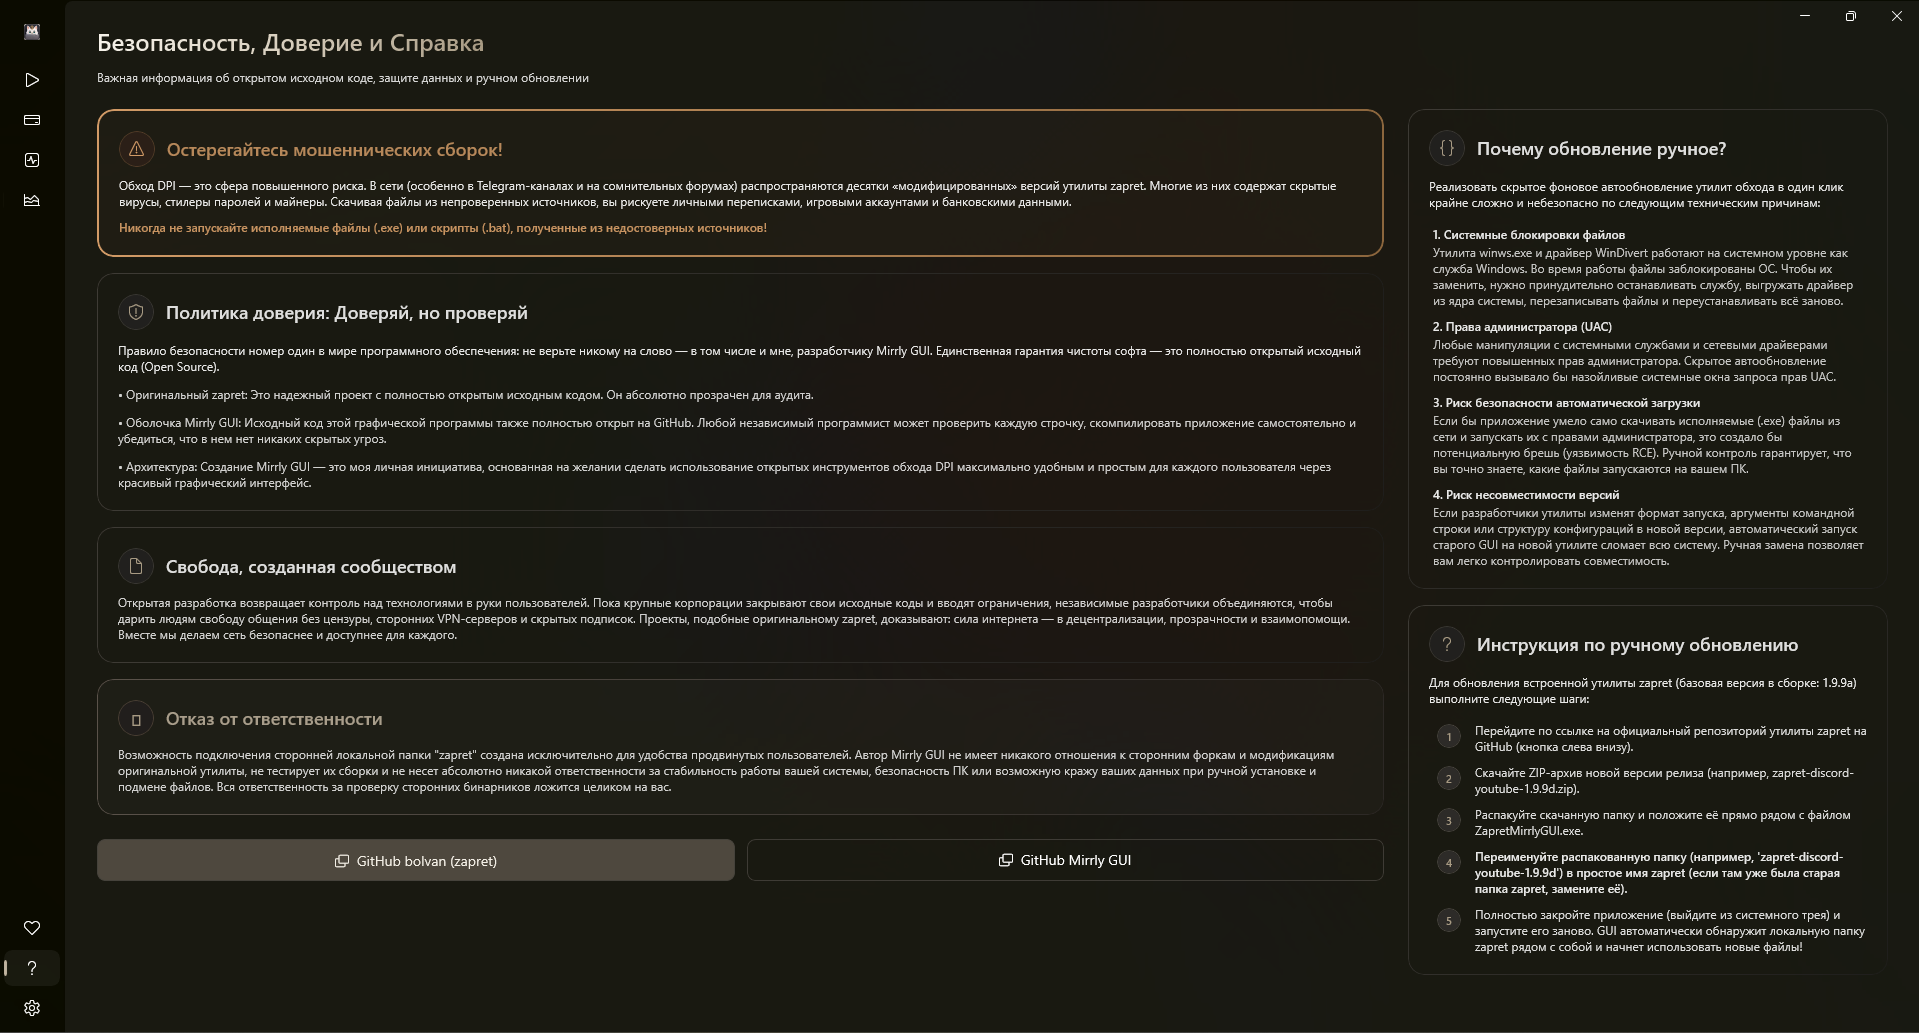
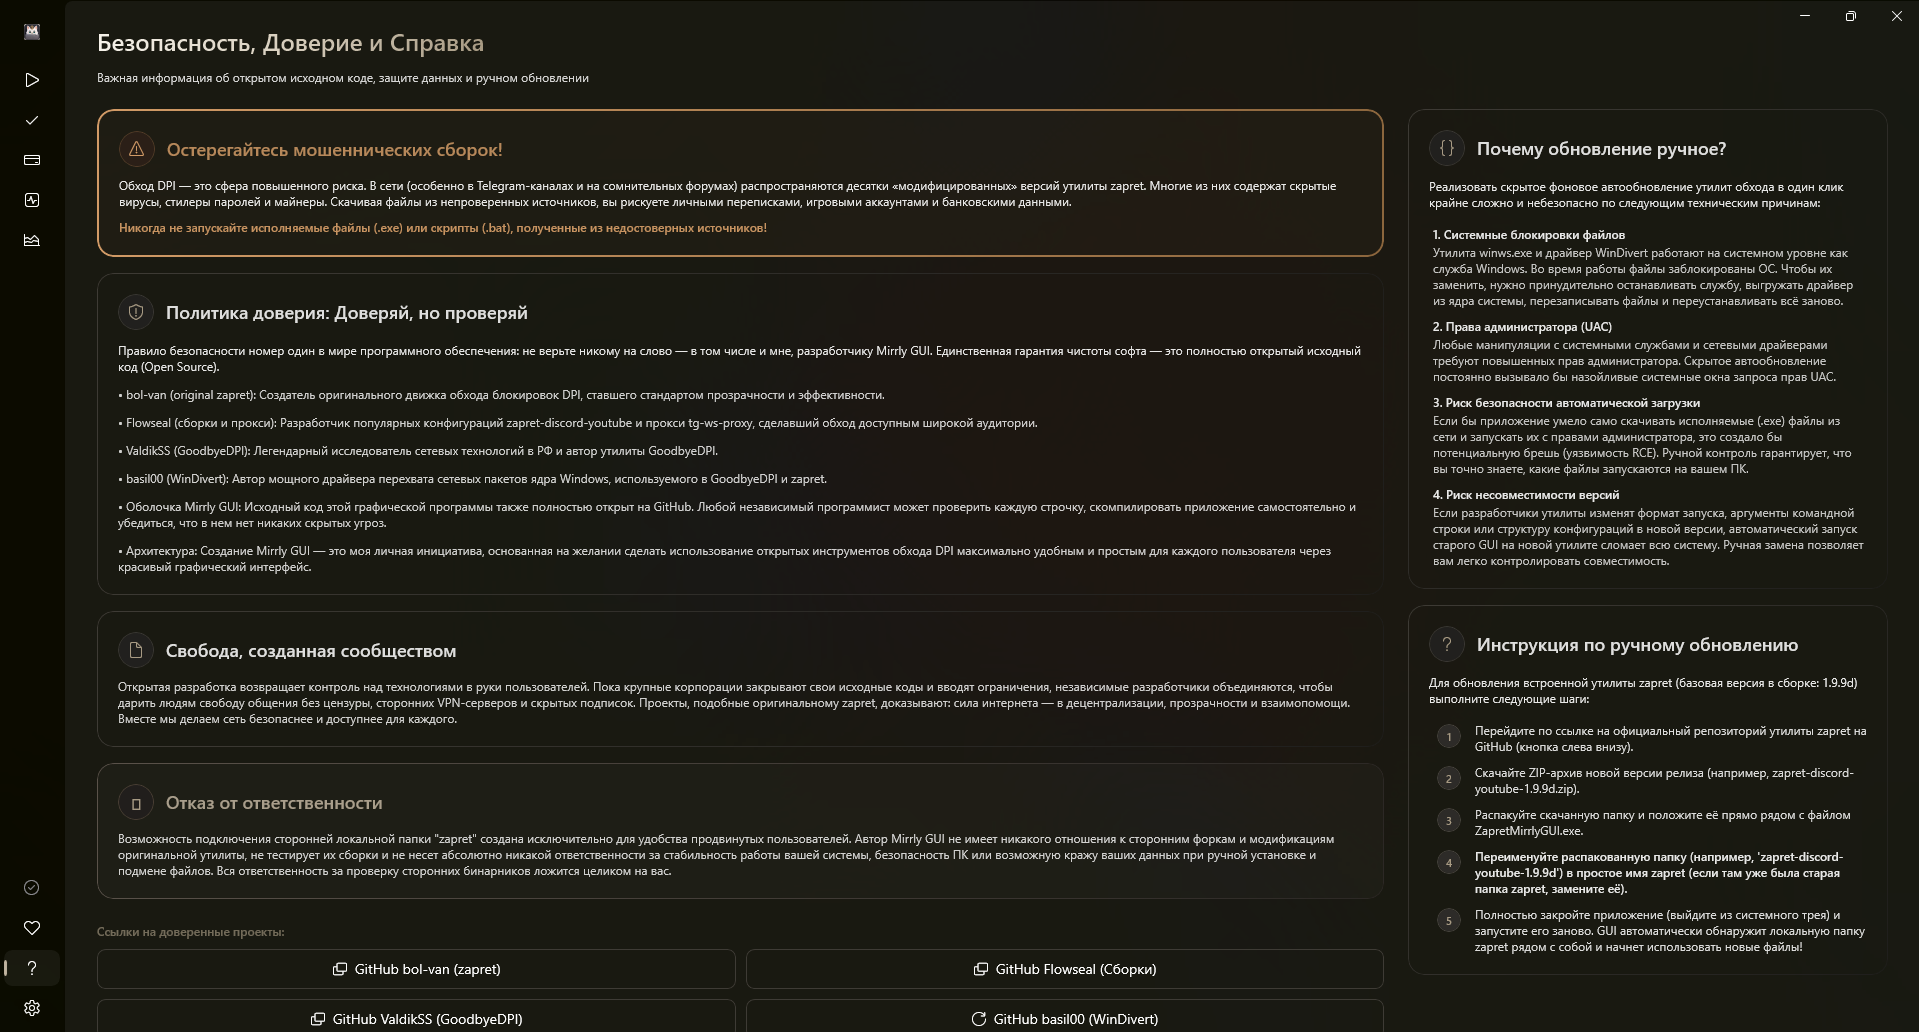
docs: refactor and expand README.md with architecture overview and screenshots

diff --git a/README.md b/README.md
@@ -5,243 +5,217 @@
 <h1 align="center">Zapret Mirrly GUI</h1>
 
 <p align="center">
-  <b>Современный графический интерфейс (WinUI 3) для автоматического обхода DPI блокировок YouTube, Discord и блокировок Telegram в один клик.</b>
+  <b>Современное графическое решение (WinUI 3) для автоматического обхода DPI-блокировок YouTube, Discord и системного проксирования Telegram в один клик.</b>
 </p>
 
 <p align="center">
   <a href="https://github.com/joycecurcirt539-dot/zapret-mirrly-gui/releases"><img src="https://img.shields.io/github/v/release/joycecurcirt539-dot/zapret-mirrly-gui?style=for-the-badge&logo=github&color=6e40c9" alt="Release" /></a>
   <a href="https://github.com/joycecurcirt539-dot/zapret-mirrly-gui/releases"><img src="https://img.shields.io/github/downloads/joycecurcirt539-dot/zapret-mirrly-gui/total?style=for-the-badge&logo=github&color=6e40c9" alt="Downloads" /></a>
   <img src="https://img.shields.io/badge/.NET-10.0-blue?style=for-the-badge&logo=dotnet" alt=".NET 10" />
-  <img src="https://img.shields.io/badge/Platform-Windows-0078D6?style=for-the-badge&logo=windows" alt="Platform" />
+  <img src="https://img.shields.io/badge/Platform-Windows%2010%20%2F%2011-0078D6?style=for-the-badge&logo=windows" alt="Platform" />
   <img src="https://img.shields.io/badge/UI-WinUI%203-005A9E?style=for-the-badge&logo=windows" alt="UI Framework" />
 </p>
 
 <p align="center">
   <a href="https://github.com/joycecurcirt539-dot/zapret-mirrly-gui/releases/latest">
-    <img src="https://img.shields.io/badge/⬇%EF%B8%8F_%D0%A1качать_v1.1.0-ZapretMirrlyGUI.exe-6e40c9?style=for-the-badge&logo=github" alt="Скачать последнюю версию" />
+    <img src="https://img.shields.io/badge/⬇%EF%B8%8F_Скачать_последнюю_версию-ZapretMirrlyGUI.exe-6e40c9?style=for-the-badge&logo=github" alt="Скачать последнюю версию" />
   </a>
 </p>
 
-> [!NOTE]
-> 🔔 Репозиторий **Flowseal/zapret-discord-youtube** на GitHub снова активен и разморожен! **Zapret Mirrly GUI** построен на его сборке и предоставляет удобный графический интерфейс для обхода блокировок.
-
-> [!WARNING]
-> Для корректной работы (запуск winws, установка службы, использование WinDivert) **требуются права администратора**. Приложение автоматически запросит повышение прав UAC.
+> [!IMPORTANT]
+> **Требуются права Администратора.** Для корректного монтирования драйвера ядра `WinDivert` и управления службами Windows приложению необходим повышенный уровень привилегий. При запуске программа автоматически запросит стандартное UAC-подтверждение.
 
 ---
 
 ## 📖 Содержание
-1. [Скриншоты и Возможности](#-скриншоты-и-возможности)
+1. [О проекте](#-о-проекте)
 2. [Основные возможности](#-основные-возможности)
-3. [Сравнение с аналогами](#-сравнение-с-аналогами)
-4. [Системные требования](#-системные-требования)
-5. [Установка и запуск](#-установка-и-запуск)
-6. [Как это работает](#-как-это-работает)
-7. [Частые вопросы (FAQ)](#-частые-вопросы-faq)
-8. [Создатели и Благодарности](#-создатели-и-благодарности)
-9. [Лицензия](#-лицензия)
+3. [Архитектура и технические детали](#-архитектура-и-технические-детали)
+4. [Интерфейс и скриншоты](#-интерфейс-и-скриншоты)
+5. [Системные требования](#-системные-требования)
+6. [Быстрый запуск](#-быстрый-запуск)
+7. [Сравнение с альтернативами](#-сравнение-с-альтернативами)
+8. [Часто задаваемые вопросы (FAQ)](#-часто-задаваемые-вопросы-faq)
+9. [Зависимости и благодарности](#-зависимости-и-благодарности)
+10. [Лицензия](#-лицензия)
 
 ---
 
-## 📸 Скриншоты и Возможности
+## 🌟 О проекте
 
-### 🏠 Главный хаб управления
-<p align="center">
-  <img src="screenshot/hub.png" width="80%" alt="Главный экран" />
-</p>
-<p align="center">
-  <i>Запуск и остановка утилиты обхода блокировок в один клик. Выбирайте предустановленные стратегии (FAKE TLS, SIMPLE FAKE, ALT) или устанавливайте службу для автоматического запуска при загрузке Windows.</i>
-</p>
+**Zapret Mirrly GUI** — это развитая графическая оболочка, объединяющая возможности низкоуровневого DPI-обходчика `zapret` и специально спроектированного высокоскоростного Telegram-прокси. 
 
----
-
-### 🔍 Интерактивная диагностика
-<p align="center">
-  <img src="screenshot/diagnostics.png" width="80%" alt="Диагностика" />
-</p>
-<p align="center">
-  <i>Встроенный тест доступности популярных ресурсов (YouTube, Discord). Проверяет разрешение DNS, доступность по Ping и отправку тестовых HTTP-запросов, помогая определить, работает ли обход DPI.</i>
-</p>
-
----
-
-### 📊 Цветовой журнал логов
-<p align="center">
-  <img src="screenshot/logs.png" width="80%" alt="Журнал логов" />
-</p>
-<p align="center">
-  <i>Динамический лог работы <code>winws.exe</code>. Все события разделены по категориям и подсвечиваются цветом (критические ошибки — красным, предупреждения — оранжевым, успешные статусы — зеленым), упрощая отладку.</i>
-</p>
-
----
-
-### 📝 Редактор списков доменов
-<p align="center">
-  <img src="screenshot/lists.png" width="80%" alt="Редактор списков" />
-</p>
-<p align="center">
-  <i>Управляйте списками доменов (blacklist/whitelist) прямо из GUI без необходимости открывать блокнот и искать файлы конфигурации в проводнике.</i>
-</p>
-
----
-
-### ❓ FAQ и Безопасность (Справка)
-<p align="center">
-  <img src="screenshot/safety.png" width="80%" alt="Частые вопросы и безопасность" />
-</p>
-<p align="center">
-  <i>Раздел ответов на часто задаваемые вопросы (FAQ), информация о безопасности работы приложения, локальном трафике и разъяснение необходимости прав администратора.</i>
-</p>
-
----
-
-### 📥 Управление в трее
-<p align="center">
-  <img src="screenshot/tray.png" width="40%" alt="Трей" />
-</p>
-<p align="center">
-  <i>Приложение сворачивается в системный трей, не занимая места на панели задач, и позволяет управлять состоянием службы через удобное контекстное меню.</i>
-</p>
+Проект решает главную проблему консольных утилит — сложность настройки и отсутствие обратной связи. Вместо редактирования конфигурационных файлов вручную и запуска разрозненных `.bat` скриптов, пользователь получает единую среду управления с интерактивной диагностикой, визуальным редактором правил и встроенным системным треем. Приложение работает полностью локально, сохраняя вашу конфиденциальность: весь трафик обрабатывается непосредственно на вашем ПК без отправки на внешние VPN-серверы.
 
 ---
 
 ## ✨ Основные возможности
 
-* 🖥️ **Премиальный современный UI:** Интерфейс в стиле Fluent Design с тёмной/светлой темой, эффектом Mica/Acrylic и плавными анимациями.
-* ⚙️ **Управление Windows-службой:** Установка, удаление, запуск и остановка службы `winws` в один клик. Работает в фоне после закрытия окна.
-* ⚡ **Менеджер пресетов:** Стратегии обхода DPI (FAKE TLS, SIMPLE FAKE, ALT) для YouTube и Discord. Поддержка собственных аргументов.
-* ✈️ **Встроенный обход Telegram (C# TgWsProxy):** Высокоскоростной встроенный прокси-сервер на чистом C# (.NET 10) для разблокировки Telegram. Поддерживает пулы веб-сокетов, маскировочный Fake TLS SNI, Cloudflare Workers и быстрое подключение прямо из трея.
-* 🔍 **Встроенная диагностика сети:** Тестирование Discord, YouTube, DNS и Ping прямо из приложения.
-* 📝 **Живой лог `winws.exe`:** Вывод в реальном времени с цветовым кодированием событий для диагностики проблем.
-* 📋 **Редактор списков доменов:** Удобное управление blacklist/whitelist файлами конфигурации `zapret`.
-* 📦 **Один файл, без установки:** `ZapretMirrlyGUI.exe` — полностью автономный, .NET Runtime не нужен.
+* **Элегантный Fluent интерфейс:** Современный дизайн на базе WinUI 3 с полноценной поддержкой эффектов Mica и Acrylic, плавной анимацией интерфейса, автоматическим переключением темной/светлой тем и высокой плотностью компоновки элементов.
+* **Управление Windows-службой:** Установка и удаление системной службы `winws` в один клик. Служба работает в фоновом режиме независимо от того, запущено ли само графическое окно приложения, обеспечивая автоматический обход блокировок сразу после загрузки ОС.
+* **Автоматический запуск и работа в трее:** Приложение умеет сворачиваться в область уведомлений (системный трей). Из контекстного меню трея можно быстро включать/выключать обход, запускать диагностику или настраивать Telegram-прокси.
+* **Интегрированный C# Telegram-прокси (TgWsProxy):** Встроенный в процесс GUI высокопроизводительный локальный прокси-сервер на чистом C# (.NET 10). Он заменяет оригинальный скрипт на Python, устраняя задержки, снижая потребление памяти и убирая ложные срабатывания антивирусов на PyInstaller.
+* **Интерактивная диагностика:** Встроенный инструмент проверки доступности ресурсов (YouTube, Discord). Выполняет пошаговое тестирование: от разрешения DNS до реального получения заголовков HTTP, наглядно локализуя сетевую проблему.
+* **Информативный журнал логов:** Вывод работы фоновых процессов `winws.exe` в реальном времени с интеллектуальным цветовым кодированием (красный — критические сбои драйвера, оранжевый — сетевые предупреждения, зеленый — успешные транзакции).
+* **Встроенный редактор списков:** Управление файлами черных и белых списков доменов (`blacklist` / `whitelist`) прямо внутри приложения. Больше нет необходимости искать файлы конфигурации в проводнике.
+* **Полная автономность (Self-Contained):** Один исполняемый файл `ZapretMirrlyGUI.exe` содержит в себе все зависимости, включая .NET Runtime, бинарники `winws.exe` (для x86/x64), библиотеки и драйвер ядра `WinDivert`.
 
 ---
 
-## ⚖️ Сравнение с аналогами
+## 🔬 Архитектура и технические детали
 
-| Функция | **Zapret Mirrly GUI** | Ручные `.bat` скрипты | GoodbyeDPI GUI |
-|---|:---:|:---:|:---:|
-| Графический интерфейс | ✅ WinUI 3 | ❌ | ✅ (устаревший) |
-| Windows-служба (автозапуск) | ✅ | ⚠️ Вручную | ❌ |
-| Выбор пресетов | ✅ | ⚠️ Редактирование файлов | ⚠️ Ограниченно |
-| Встроенная диагностика | ✅ | ❌ | ❌ |
-| Живой лог с подсветкой | ✅ | ❌ | ❌ |
-| Встроенный обход Telegram (C#) | ✅ (Высокоскоростной) | ❌ | ❌ |
-| Один EXE без установки | ✅ | ⚠️ Архив с файлами | ✅ |
-| Открытый исходный код | ✅ MIT | ✅ | ✅ |
-| Требует VPN/сервер | ❌ | ❌ | ❌ |
+```mermaid
+graph TD
+    A[Пользовательский интерфейс WinUI 3] -->|Управление / API| B(ZapretService)
+    A -->|Управление / Настройки| C(TgWsProxyService)
+    
+    subgraph DPI Bypass Layer
+        B -->|Автоподготовка| D[Включение TCP Timestamps]
+        B -->|Управление| E[Служба WinWS / winws.exe]
+        E -->|Драйвер ядра| F[WinDivert]
+        F <-->|Фильтрация пакетов| G[Сетевой стек Windows]
+    end
+
+    subgraph Telegram Proxy Layer
+        C -->|Запуск в процессе| H[TgWsProxyServer]
+        H -->|Предпрогрев соединений| I[WsPool]
+        H -->|Аппаратное шифрование| J[AES-NI Cryptography]
+        I <-->|WebSocket / TLS Fronted| K[Telegram DCs]
+    end
+```
+
+### 1. Движок обхода DPI
+В качестве низкоуровневой основы используется утилита `winws.exe` (проект `zapret` разработчика bol-van):
+* **Принцип перехвата:** Драйвер ядра `WinDivert` перехватывает сетевые пакеты на уровне сетевого интерфейса Windows.
+* **Методы обхода:** Пакеты TLS/TCP подвергаются модификации: фрагментация TLS ClientHello, изменение регистра полей HTTP-заголовков (например, `host` -> `hOsT`), манипуляции с размером окна TCP (TCP Window Size) и внедрение фейковых TLS SNI запросов (Fake TLS). Это не позволяет сетевым анализаторам провайдера (DPI) распознавать целевые домены.
+* **TCP Timestamps:** Приложение автоматически вносит изменения в системный реестр (`Tcp1323Opts`), активируя временные метки TCP. Это устраняет проблемы несовместимости при сборке фрагментированных пакетов веб-серверами.
+
+### 2. Локальный WebSocket-прокси для Telegram
+Интегрированный C# прокси-сервер обеспечивает обход блокировок мессенджера:
+* **Pre-warmed WebSocket Pool (`WsPool`):** Сервер заранее создает и поддерживает пул открытых WebSocket-соединений к дата-центрам Telegram. Когда клиентское приложение Telegram отправляет запрос, обмен данными начинается мгновенно без затрат времени на TCP-подключение и TLS-рукопожатие.
+* **Аппаратное ускорение шифрования:** Потоковое шифрование MTProto пакетов использует векторные инструкции процессора AES-NI (`Aes.EncryptEcb`), что минимизирует загрузку CPU даже при передаче тяжелых медиафайлов.
+* **SNI Fronting:** Трафик маскируется под доверенные веб-ресурсы (например, SNI `sprinthost.ru` на этапе рукопожатия TLS) и направляется через Cloudflare Workers, обходя блокировки протокола MTProto.
+
+---
+
+## 📸 Интерфейс и скриншоты
+
+Разделы графического интерфейса спроектированы в соответствии с гайдлайнами Windows Fluent Design и поддерживают динамические темы оформления (Acrylic/Mica).
+
+### Панель управления и Telegram-прокси
+Основной хаб управления процессами и настройки встроенного высокоскоростного WebSocket-моста для Telegram.
+
+| Главный хаб управления | Вкладка Telegram прокси |
+|:---:|:---:|
+| ![Главная страница](screenshot/hub.png) | ![Прокси Telegram](screenshot/tgws.png) |
+| *Запуск и остановка процессов обхода блокировок в один клик. Выбор пресетов конфигурации.* | *Управление WebSocket-мостом, предпрогревом сокетов, пулом доменов и генерация ссылки подключения.* |
+
+### Диагностика, Логирование и Конфигурация
+Встроенные инструменты для анализа сетевых узлов, просмотра вывода `winws.exe` и редактирования списков блокировки.
+
+| Сетевая диагностика | Цветовой журнал логов |
+|:---:|:---:|
+| ![Диагностика ресурсов](screenshot/diagnostics.png) | ![Лог работы](screenshot/logs.png) |
+| *Интерактивный тест доступности YouTube, Discord, DNS-серверов и пинга для выявления точек сбоя.* | *Вывод консольного вывода winws.exe в реальном времени с подсветкой ошибок и успешных операций.* |
+
+| Редактор списков доменов | FAQ и Справка |
+|:---:|:---:|
+| ![Редактирование списков](screenshot/lists.png) | ![FAQ](screenshot/safety.png) |
+| *Визуальный редактор файлов черного и белого списков блокировки напрямую из графической оболочки.* | *Встроенный справочник по безопасности, локальной обработке пакетов и тонкой настройке утилиты.* |
+
+### Системный трей и быстрое управление
+Приложение поддерживает фоновую работу и компактно сворачивается в системный трей.
+
+| Левый клик (Статус и управление) | Правый клик (Контекстное меню) |
+|:---:|:---:|
+| ![Трей ЛКМ](screenshot/Tray%20LMB.png) | ![Трей ПКМ](screenshot/Tray%20RMB.png) |
+| *Быстрый просмотр статуса служб и переключение состояний обхода.* | *Полный доступ к диагностике, настройкам Telegram и выходу.* |
 
 ---
 
 ## 🖥️ Системные требования
 
-* **ОС:** Windows 10 (сборка 1809+) или Windows 11 (x64)
-* **Права:** Администратор (для WinDivert)
-* **Сеть:** Активное подключение. Если используешь GoodbyeDPI — останови его перед запуском.
+* **Операционная система:** Windows 10 (версия 1809 и новее) или Windows 11 (x64).
+* **Права:** Администратор (необходимы для инсталляции службы автозапуска и драйвера `WinDivert`).
+* **Совместимость:** Перед активацией обхода обязательно остановите другие службы, использующие драйвер `WinDivert` (например, GoodbyeDPI, сторонние сборки zapret), чтобы избежать сетевых конфликтов.
 
 ---
 
-## 🚀 Установка и запуск
+## 🚀 Быстрый запуск
 
-1. Перейди в раздел **[Releases](https://github.com/joycecurcirt539-dot/zapret-mirrly-gui/releases)**
-2. Скачай `ZapretMirrlyGUI.exe`
-3. Запусти **от имени Администратора**
-4. Выбери пресет (например `general (FAKE TLS AUTO).bat`)
-5. Нажми **«Запустить»** или **«Установить службу»** для автозапуска при старте Windows
-6. Пользуйся свободным интернетом! 🎉
-
----
-
-## 🛠️ Как это работает
-
-При первом запуске приложение распаковывает ресурсы (`winws.exe`, драйвер `WinDivert`, конфигурационные скрипты) в `%LOCALAPPDATA%\ZapretMirrlyGUI`.
-
-При запуске пресета `winws` перехватывает сетевые пакеты через `WinDivert` и модифицирует заголовки (разбивает TCP-сегменты, меняет регистр host-заголовков, отправляет фейковые TLS-запросы), обходя алгоритмы DPI провайдеров.
+1. Скачайте последнюю версию `ZapretMirrlyGUI.exe` из раздела **[Releases](https://github.com/joycecurcirt539-dot/zapret-mirrly-gui/releases)**.
+2. Запустите файл от имени Администратора (или подтвердите автоматический запрос UAC).
+3. На вкладке **Панель управления** выберите нужный пресет (например, `general (FAKE TLS AUTO).bat`).
+4. Нажмите **«Запустить»** для ручной сессии или **«Установить службу»** для регистрации автозапуска службы в Windows.
+5. Для Telegram: перейдите во вкладку **Telegram прокси**, нажмите кнопку запуска сервера, а затем кликните по кнопке быстрого подключения, чтобы автоматически привязать локальный прокси к вашему клиенту Telegram.
 
 ---
 
-## ❓ Частые вопросы (FAQ)
+## ⚖️ Сравнение с альтернативами
+
+| Функция / Возможность | Zapret Mirrly GUI | GoodbyeDPI | GoodbyeDPI GUI | Ручные `.bat` скрипты |
+|:---|:---:|:---:|:---:|:---:|
+| **Интерфейс WinUI 3 (Fluent/Mica)** | ✅ | ❌ | ⚠️ Устаревший WinForms | ❌ |
+| **Системная служба (автозапуск)** | ✅ Установка в 1 клик | ⚠️ Настройка вручную | ❌ | ⚠️ Требует sc.exe вручную |
+| **Встроенный обход Telegram (C#)** | ✅ (AES-NI / WsPool) | ❌ | ❌ | ❌ |
+| **Интерактивная диагностика** | ✅ | ❌ | ❌ | ❌ |
+| **Цветовой журнал логов** | ✅ | ❌ | ❌ | ❌ |
+| **Редактор списков в приложении** | ✅ | ❌ | ⚠️ Ограниченный | ❌ |
+| **Портативный формат (Single EXE)** | ✅ | ✅ | ✅ | ❌ |
+
+---
+
+## ❓ Часто задаваемые вопросы (FAQ)
 
 <details>
-<summary><strong>YouTube / Discord всё равно не работает. Что делать?</strong></summary>
+<summary><strong>YouTube или Discord всё равно тормозит/не работает. Что делать?</strong></summary>
 
-1. Убедись что приложение запущено **от имени Администратора**
-2. Попробуй другой пресет — разные провайдеры требуют разные стратегии
-3. Открой вкладку **Диагностика** — она покажет где именно блокировка
-4. Проверь вкладку **Логи** — нет ли ошибок в выводе `winws`
-5. Убедись что GoodbyeDPI или другие DPI-инструменты **остановлены**
+1. Убедитесь, что приложение успешно запустилось с правами Администратора и в логах нет ошибок монтирования драйвера `WinDivert`.
+2. Перейдите на вкладку **Диагностика** и запустите тест. Он покажет, на каком этапе происходит блокировка (DNS, пинг или HTTP-запрос).
+3. Попробуйте выбрать другой пресет на панели управления. Провайдеры связи используют разные конфигурации DPI, поэтому универсального пресета не существует (кому-то подходит `FAKE TLS`, кому-то `SIMPLE FAKE` или `ALT`).
+4. Убедитесь, что другие DPI-обходчики (GoodbyeDPI и др.) полностью остановлены и их процессы не висят в диспетчере задач.
 
 </details>
 
 <details>
-<summary><strong>Зачем нужны права администратора?</strong></summary>
+<summary><strong>Зачем приложению права администратора?</strong></summary>
 
-Утилита `winws` использует драйвер `WinDivert` для перехвата сетевых пакетов на уровне ядра Windows. Это требует повышенных привилегий — без них драйвер просто не запустится.
-
-</details>
-
-<details>
-<summary><strong>Это безопасно? Куда уходят мои данные?</strong></summary>
-
-Данные никуда не уходят. Приложение работает **полностью локально** — нет серверов, нет телеметрии, нет VPN-туннелей. `winws` только модифицирует заголовки пакетов на твоём ПК. Исходный код открыт — можешь проверить сам.
+Низкоуровневая утилита `winws.exe` использует драйвер `WinDivert` для фильтрации и модификации пакетов на уровне сетевых интерфейсов Windows, а также регистрирует службу автозапуска в системе. Подобные операции в целях безопасности Windows разрешены только процессам, запущенным с правами Администратора.
 
 </details>
 
 <details>
-<summary><strong>Чем это отличается от VPN?</strong></summary>
+<summary><strong>Это безопасно? Куда уходит мой интернет-трафик?</strong></summary>
 
-VPN перенаправляет **весь** трафик через чужой сервер, замедляя соединение. `winws` работает локально и только изменяет способ отправки пакетов — скорость не страдает, сервер не нужен, анонимность не обеспечивается (это не VPN).
-
-</details>
-
-<details>
-<summary><strong>Работает ли Telegram?</strong></summary>
-
-**Да!** Начиная с версии **v1.1.0**, в Zapret Mirrly GUI полностью встроен высокопроизводительный WebSocket-прокси для обхода блокировок Telegram на территории РФ.
-
-В отличие от оригинального репозитория `tg-ws-proxy` (написанного на Python), наш прокси-сервер переписан на чистом C# (.NET 10) и интегрирован непосредственно в основной процесс GUI. Это дало:
-* **Нулевую сетевую задержку**: Реализован пул предпрогретых веб-сокетов (`WsPool`) к официальным датацентрам Telegram. Соединения открыты заранее, сообщения и медиа отправляются мгновенно.
-* **Аппаратное шифрование**: Потоковое шифрование MTProto секретов использует криптографические инструкции процессора AES-NI (`Aes.EncryptEcb`).
-* **Отсутствие зависимости от Python**: Больше никаких тяжелых EXE-файлов в ресурсах, отсутствие ложных детектов антивирусов на PyInstaller и сниженный на ~41 МБ вес приложения.
-* **Удобное подключение**: Добавить прокси в клиент Telegram можно в один клик прямо из системного трея.
+Программа работает **полностью локально**. В отличие от VPN, здесь нет внешних серверов, через которые перенаправляется ваш трафик. Утилита лишь перехватывает заголовки пакетов на вашем ПК, модифицирует их для обхода фильтров провайдера и сразу отправляет дальше. Код проекта открыт, вы можете самостоятельно собрать его из исходников.
 
 </details>
 
 <details>
-<summary><strong>Как запустить как Windows-службу (автозапуск)?</strong></summary>
+<summary><strong>В чём разница между этим обходом и классическим VPN?</strong></summary>
 
-На панели управления нажми **«Установить службу»**. Служба зарегистрируется в Windows и будет запускаться автоматически при старте системы — даже без открытия приложения.
+VPN шифрует весь ваш трафик и передает его через удаленный сервер, что часто приводит к снижению скорости, увеличению пинга и риску утечки данных на стороне владельца сервера. Zapret Mirrly GUI изменяет структуру отправляемых вами пакетов локально, поэтому скорость интернета остается максимальной (ограничена только тарифом вашего провайдера).
 
 </details>
 
 <details>
-<summary><strong>Почему exe весит ~300 МБ?</strong></summary>
+<summary><strong>Почему исполняемый файл весит около 300 МБ?</strong></summary>
 
-Приложение скомпилировано в **self-contained** режиме — внутри уже весь .NET Runtime, `winws.exe`, драйвер `WinDivert` и все конфигурации. Устанавливать ничего дополнительно не нужно.
+Приложение скомпилировано в режиме `Self-Contained`. Это означает, что внутрь исполняемого файла упакована полная среда выполнения .NET 10 Runtime, бинарные файлы `winws.exe` для разных архитектур, драйвер `WinDivert` и все конфигурации. Благодаря этому приложение является полностью портативным и запустится на любом компьютере без необходимости скачивать и устанавливать библиотеки от Microsoft.
 
 </details>
 
 ---
 
-## 🤝 Создатели и Благодарности
+## 🤝 Зависимости и благодарности
 
-* **joycecurcirt539-dot** — разработчик графической оболочки Zapret Mirrly GUI и автор экосистемы Mirrly.
-
-* 🏆 **[Flowseal](https://github.com/Flowseal)** — легенда. Именно он сделал обход блокировок доступным каждому с его [`zapret-discord-youtube`](https://github.com/Flowseal/zapret-discord-youtube) (зеркало на [SourceForge](https://sourceforge.net/projects/zapret-discord-youtube/)) — готовое решение «скачал и работает». Также автор [`tg-ws-proxy`](https://github.com/Flowseal/tg-ws-proxy) (зеркало на [SourceForge](https://sourceforge.net/projects/tg-ws-proxy/)). Zapret Mirrly GUI построен на его сборке.
-
-* 🏆 **[bol-van](https://github.com/bol-van)** — легенда. Создатель оригинального движка [`zapret`](https://github.com/bol-van/zapret) и `winws` — низкоуровневого инструмента перехвата и модификации пакетов через WinDivert. Без bol-van не существовало бы ни одного DPI-обходчика в экосистеме.
-
-* 🏆 **[basil00 (WinDivert)](https://github.com/basil00/Divert)** — легенда. Создатель драйвера и библиотеки **WinDivert** (Windows Packet Divert). Этот инструмент позволяет захватывать, модифицировать и сбрасывать сетевые пакеты на уровне ядра Windows из пользовательского режима. Без его разработок низкоуровневый перехват трафика в движках GoodbyeDPI и winws (zapret) был бы невозможен без написания собственных сложных драйверов ядра.
+Проект существует благодаря открытым разработкам сообщества:
+* **[bol-van](https://github.com/bol-van)** — автор низкоуровневого движка обхода [zapret](https://github.com/bol-van/zapret) и утилиты `winws`.
+* **[Flowseal](https://github.com/Flowseal)** — создатель популярных конфигураций обхода [zapret-discord-youtube](https://github.com/Flowseal/zapret-discord-youtube) и концепта прокси-сервера [tg-ws-proxy](https://github.com/Flowseal/tg-ws-proxy).
+* **[basil00 (WinDivert)](https://github.com/basil00/Divert)** — разработчик драйвера и библиотеки **WinDivert** (Windows Packet Divert) для перехвата пакетов в пользовательском режиме.
 
 ---
 
 ## 📄 Лицензия
 
 Этот проект распространяется под свободной лицензией **MIT**. Подробности в файле [LICENSE](LICENSE).
-
----
-
-## 🔍 Ключевые слова для поиска
-
-`zapret gui`, `zapret для windows`, `обход блокировки discord`, `обход блокировок youtube`, `winws gui windows`, `goodbyedpi альтернатива`, `zapret discord youtube gui`, `графический интерфейс для zapret`, `обход dpi windows 11`, `winws служба автозапуск`, `ускорение ютуба`, `discord не работает провайдер`, `youtube тормозит россия`, `antizapret`, `обход dpi без vpn`, `flowseal альтернатива`, `zapret-discord-youtube альтернатива`